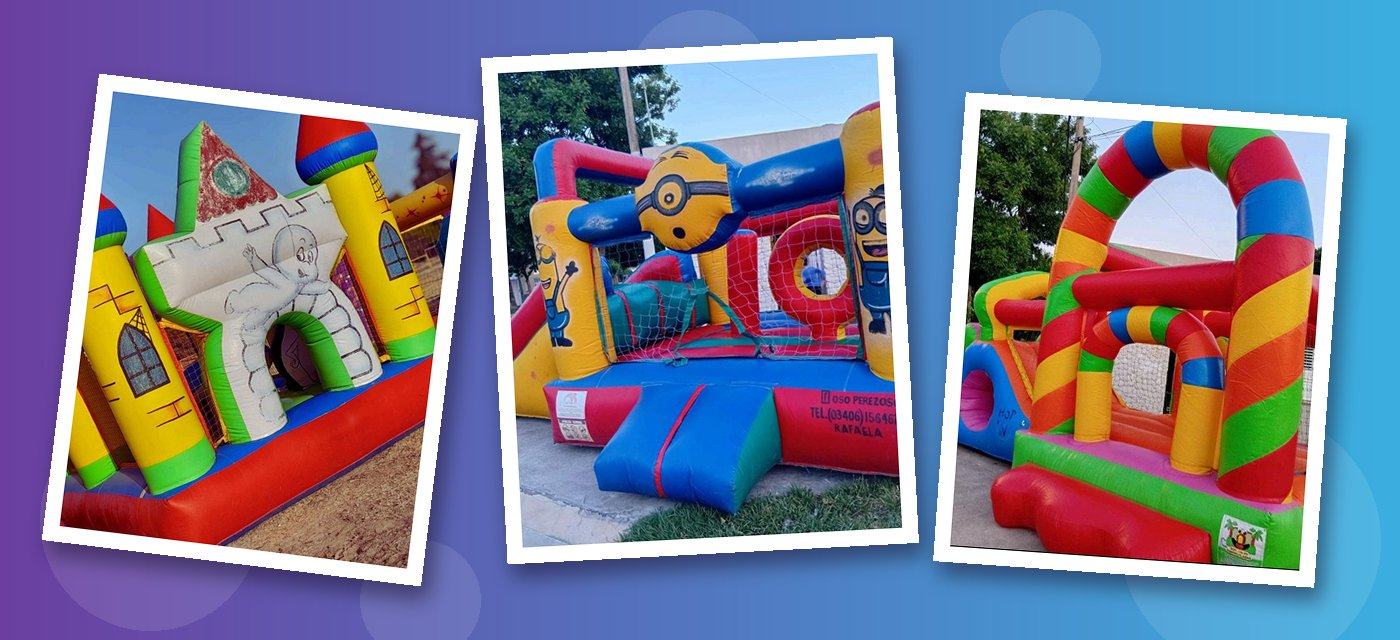
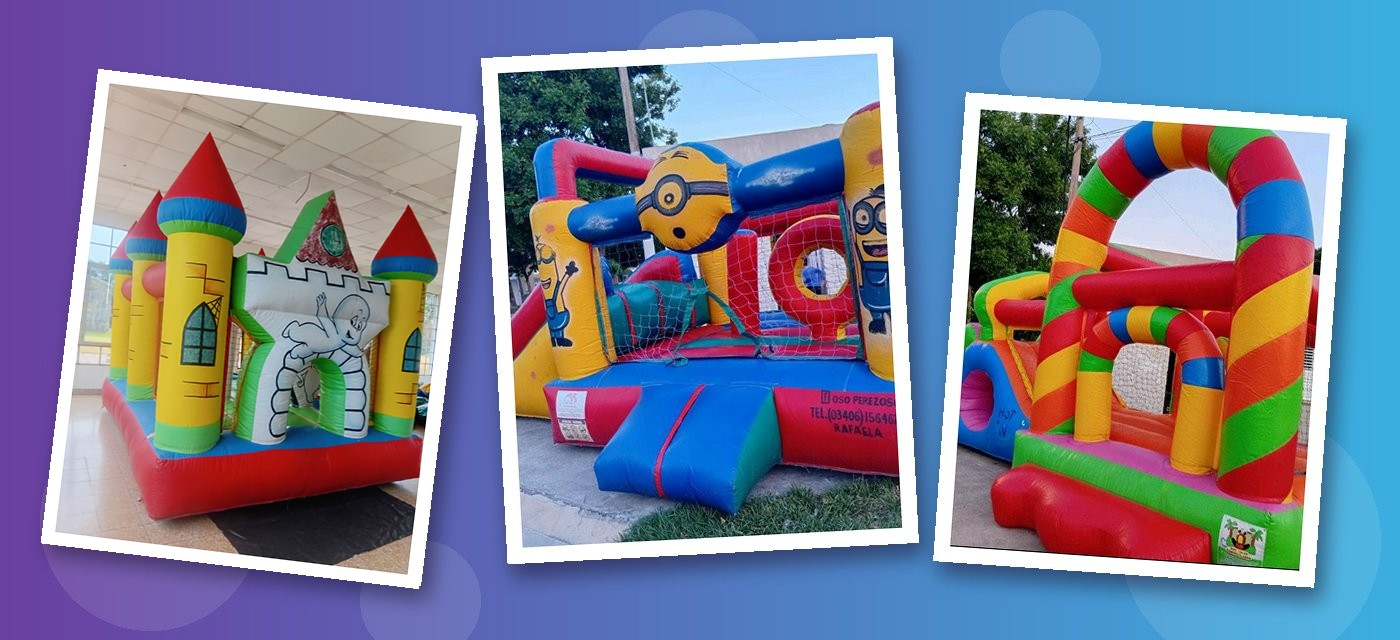
Actualizar foto de Casper dentro del collage de portada
Se reemplaza solo la polaroid izquierda del collage por una foto nueva
del castillo de Casper, conservando el diseño del collage.

Claude-Session: https://claude.ai/code/session_01Tr3U6KkK9ukLNdQ4Js2Y6H

Changed region(s): [[0.0307, 0.0938, 0.3379, 0.9375]]

diff --git a/index.html b/index.html
@@ -212,7 +212,7 @@
   <div class="entradas-titulo">&iquest;Para qui&eacute;n es el evento?</div>
   <div class="entradas">
     <button class="entrada" onclick="filtrarPorEdad('0-3','4-6')">
-      <img src="img/casper_2.jpg" alt="Para los m&aacute;s chicos">
+      <img src="img/collage_inflables.jpg" alt="Para los m&aacute;s chicos">
       <div class="entrada-flecha">&#8594;</div>
       <div class="entrada-overlay"><div class="entrada-nombre">Para los m&aacute;s chicos</div></div>
     </button>
